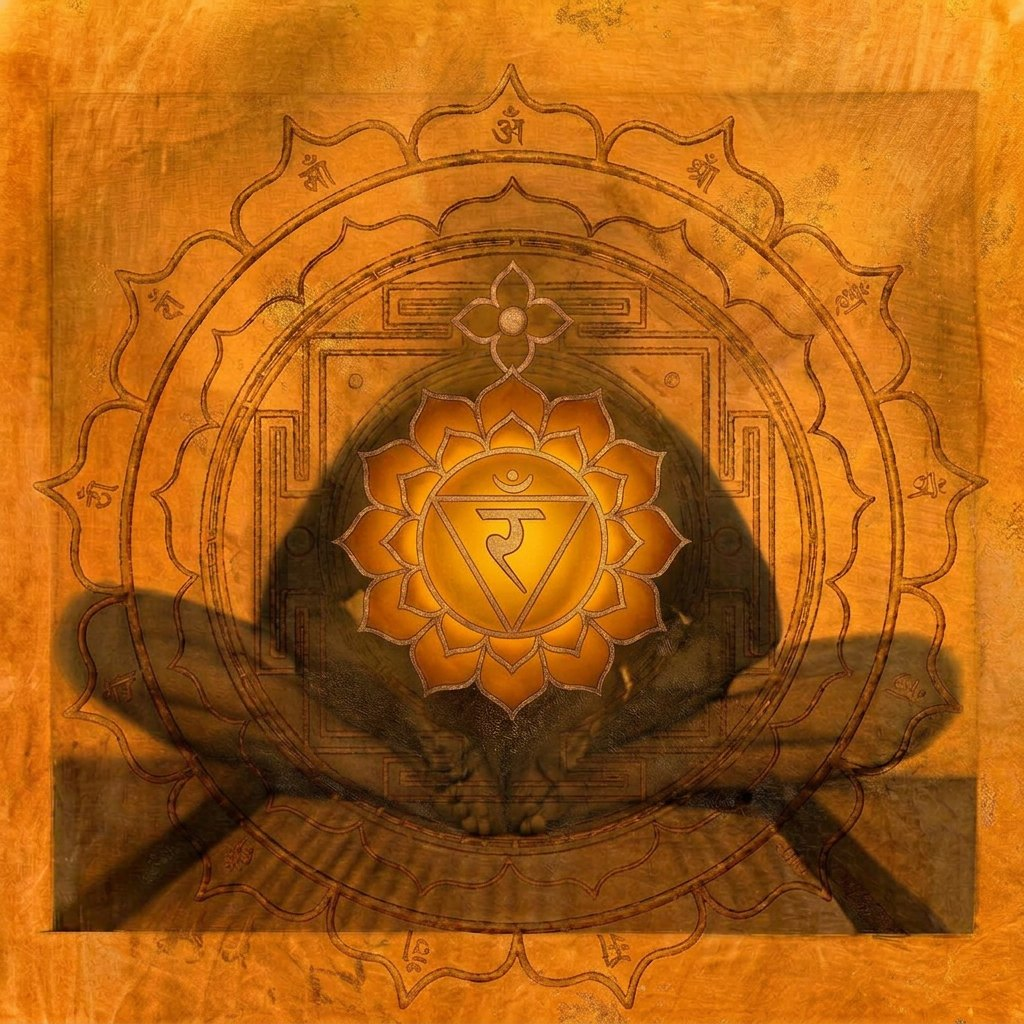
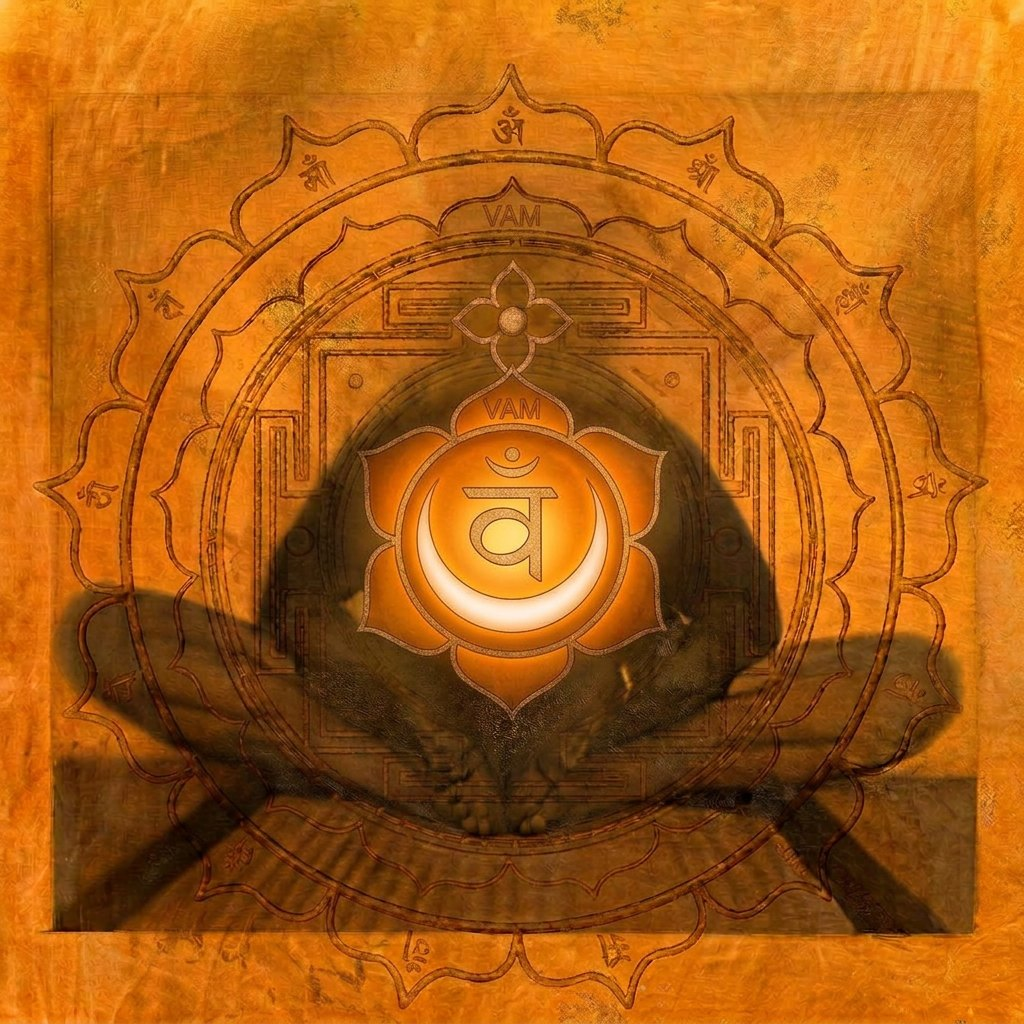
Sunhouse Yoga: corrected Sacral artwork; full-body chakra image for Full Reset

Changed region(s): [[0.3125, 0.375, 0.6875, 0.7188], [0.4688, 0.1875, 0.5312, 0.2188]]

diff --git a/sunhouse-yoga/class-full-reset.html b/sunhouse-yoga/class-full-reset.html
@@ -33,7 +33,7 @@
       <p class="lede">Once a week we reset everything. A kundalini class that works through the body from root to crown with kriyas, breath and sound, and ends lying down under the gong.</p>
       <div class="actions"><a href="calendar.html?class=full-reset" class="btn">See dates &amp; book</a><a href="classes.html" class="btn ghost">All classes</a></div>
     </div>
-    <div class="art reveal"><svg viewBox="0 0 400 500" role="img" aria-label="Full Reset sun" xmlns="http://www.w3.org/2000/svg"><defs><linearGradient id="g-full-reset-45" x1="0" y1="0" x2="0" y2="1"><stop offset="0" stop-color="#efe5c6"/><stop offset="1" stop-color="#efe5c6"/></linearGradient><radialGradient id="r-full-reset-45"><stop offset="0" stop-color="#E3A33B" stop-opacity=".35"/><stop offset="1" stop-color="#E3A33B" stop-opacity="0"/></radialGradient></defs><rect width="400" height="500" fill="url(#g-full-reset-45)"/><line x1="292.0" y1="260.0" x2="362.0" y2="260.0" stroke="#E3A33B" stroke-width=".8" opacity=".55"/><line x1="291.6" y1="268.0" x2="331.5" y2="271.5" stroke="#E3A33B" stroke-width=".8" opacity=".55"/><line x1="290.6" y1="276.0" x2="359.5" y2="288.1" stroke="#E3A33B" stroke-width=".8" opacity=".55"/><line x1="288.9" y1="283.8" x2="327.5" y2="294.2" stroke="#E3A33B" stroke-width=".8" opacity=".55"/><line x1="286.5" y1="291.5" x2="352.2" y2="315.4" stroke="#E3A33B" stroke-width=".8" opacity=".55"/><line x1="283.4" y1="298.9" x2="319.6" y2="315.8" stroke="#E3A33B" stroke-width=".8" opacity=".55"/><line x1="279.7" y1="306.0" x2="340.3" y2="341.0" stroke="#E3A33B" stroke-width=".8" opacity=".55"/><line x1="275.4" y1="312.8" x2="308.1" y2="335.7" stroke="#E3A33B" stroke-width=".8" opacity=".55"/><line x1="270.5" y1="319.1" x2="324.1" y2="364.1" stroke="#E3A33B" stroke-width=".8" opacity=".55"/><line x1="265.1" y1="325.1" x2="293.3" y2="353.3" stroke="#E3A33B" stroke-width=".8" opacity=".55"/><line x1="259.1" y1="330.5" x2="304.1" y2="384.1" stroke="#E3A33B" stroke-width=".8" opacity=".55"/><line x1="252.8" y1="335.4" x2="275.7" y2="368.1" stroke="#E3A33B" stroke-width=".8" opacity=".55"/><line x1="246.0" y1="339.7" x2="281.0" y2="400.3" stroke="#E3A33B" stroke-width=".8" opacity=".55"/><line x1="238.9" y1="343.4" x2="255.8" y2="379.6" stroke="#E3A33B" stroke-width=".8" opacity=".55"/><line x1="231.5" y1="346.5" x2="255.4" y2="412.2" stroke="#E3A33B" stroke-width=".8" opacity=".55"/><line x1="223.8" y1="348.9" x2="234.2" y2="387.5" stroke="#E3A33B" stroke-width=".8" opacity=".55"/><line x1="216.0" y1="350.6" x2="228.1" y2="419.5" stroke="#E3A33B" stroke-width=".8" opacity=".55"/><line x1="208.0" y1="351.6" x2="211.5" y2="391.5" stroke="#E3A33B" stroke-width=".8" opacity=".55"/><line x1="200.0" y1="352.0" x2="200.0" y2="422.0" stroke="#E3A33B" stroke-width=".8" opacity=".55"/><line x1="192.0" y1="351.6" x2="188.5" y2="391.5" stroke="#E3A33B" stroke-width=".8" opacity=".55"/><line x1="184.0" y1="350.6" x2="171.9" y2="419.5" stroke="#E3A33B" stroke-width=".8" opacity=".55"/><line x1="176.2" y1="348.9" x2="165.8" y2="387.5" stroke="#E3A33B" stroke-width=".8" opacity=".55"/><line x1="168.5" y1="346.5" x2="144.6" y2="412.2" stroke="#E3A33B" stroke-width=".8" opacity=".55"/><line x1="161.1" y1="343.4" x2="144.2" y2="379.6" stroke="#E3A33B" stroke-width=".8" opacity=".55"/><line x1="154.0" y1="339.7" x2="119.0" y2="400.3" stroke="#E3A33B" stroke-width=".8" opacity=".55"/><line x1="147.2" y1="335.4" x2="124.3" y2="368.1" stroke="#E3A33B" stroke-width=".8" opacity=".55"/><line x1="140.9" y1="330.5" x2="95.9" y2="384.1" stroke="#E3A33B" stroke-width=".8" opacity=".55"/><line x1="134.9" y1="325.1" x2="106.7" y2="353.3" stroke="#E3A33B" stroke-width=".8" opacity=".55"/><line x1="129.5" y1="319.1" x2="75.9" y2="364.1" stroke="#E3A33B" stroke-width=".8" opacity=".55"/><line x1="124.6" y1="312.8" x2="91.9" y2="335.7" stroke="#E3A33B" stroke-width=".8" opacity=".55"/><line x1="120.3" y1="306.0" x2="59.7" y2="341.0" stroke="#E3A33B" stroke-width=".8" opacity=".55"/><line x1="116.6" y1="298.9" x2="80.4" y2="315.8" stroke="#E3A33B" stroke-width=".8" opacity=".55"/><line x1="113.5" y1="291.5" x2="47.8" y2="315.4" stroke="#E3A33B" stroke-width=".8" opacity=".55"/><line x1="111.1" y1="283.8" x2="72.5" y2="294.2" stroke="#E3A33B" stroke-width=".8" opacity=".55"/><line x1="109.4" y1="276.0" x2="40.5" y2="288.1" stroke="#E3A33B" stroke-width=".8" opacity=".55"/><line x1="108.4" y1="268.0" x2="68.5" y2="271.5" stroke="#E3A33B" stroke-width=".8" opacity=".55"/><line x1="108.0" y1="260.0" x2="38.0" y2="260.0" stroke="#E3A33B" stroke-width=".8" opacity=".55"/><line x1="108.4" y1="252.0" x2="68.5" y2="248.5" stroke="#E3A33B" stroke-width=".8" opacity=".55"/><line x1="109.4" y1="244.0" x2="40.5" y2="231.9" stroke="#E3A33B" stroke-width=".8" opacity=".55"/><line x1="111.1" y1="236.2" x2="72.5" y2="225.8" stroke="#E3A33B" stroke-width=".8" opacity=".55"/><line x1="113.5" y1="228.5" x2="47.8" y2="204.6" stroke="#E3A33B" stroke-width=".8" opacity=".55"/><line x1="116.6" y1="221.1" x2="80.4" y2="204.2" stroke="#E3A33B" stroke-width=".8" opacity=".55"/><line x1="120.3" y1="214.0" x2="59.7" y2="179.0" stroke="#E3A33B" stroke-width=".8" opacity=".55"/><line x1="124.6" y1="207.2" x2="91.9" y2="184.3" stroke="#E3A33B" stroke-width=".8" opacity=".55"/><line x1="129.5" y1="200.9" x2="75.9" y2="155.9" stroke="#E3A33B" stroke-width=".8" opacity=".55"/><line x1="134.9" y1="194.9" x2="106.7" y2="166.7" stroke="#E3A33B" stroke-width=".8" opacity=".55"/><line x1="140.9" y1="189.5" x2="95.9" y2="135.9" stroke="#E3A33B" stroke-width=".8" opacity=".55"/><line x1="147.2" y1="184.6" x2="124.3" y2="151.9" stroke="#E3A33B" stroke-width=".8" opacity=".55"/><line x1="154.0" y1="180.3" x2="119.0" y2="119.7" stroke="#E3A33B" stroke-width=".8" opacity=".55"/><line x1="161.1" y1="176.6" x2="144.2" y2="140.4" stroke="#E3A33B" stroke-width=".8" opacity=".55"/><line x1="168.5" y1="173.5" x2="144.6" y2="107.8" stroke="#E3A33B" stroke-width=".8" opacity=".55"/><line x1="176.2" y1="171.1" x2="165.8" y2="132.5" stroke="#E3A33B" stroke-width=".8" opacity=".55"/><line x1="184.0" y1="169.4" x2="171.9" y2="100.5" stroke="#E3A33B" stroke-width=".8" opacity=".55"/><line x1="192.0" y1="168.4" x2="188.5" y2="128.5" stroke="#E3A33B" stroke-width=".8" opacity=".55"/><line x1="200.0" y1="168.0" x2="200.0" y2="98.0" stroke="#E3A33B" stroke-width=".8" opacity=".55"/><line x1="208.0" y1="168.4" x2="211.5" y2="128.5" stroke="#E3A33B" stroke-width=".8" opacity=".55"/><line x1="216.0" y1="169.4" x2="228.1" y2="100.5" stroke="#E3A33B" stroke-width=".8" opacity=".55"/><line x1="223.8" y1="171.1" x2="234.2" y2="132.5" stroke="#E3A33B" stroke-width=".8" opacity=".55"/><line x1="231.5" y1="173.5" x2="255.4" y2="107.8" stroke="#E3A33B" stroke-width=".8" opacity=".55"/><line x1="238.9" y1="176.6" x2="255.8" y2="140.4" stroke="#E3A33B" stroke-width=".8" opacity=".55"/><line x1="246.0" y1="180.3" x2="281.0" y2="119.7" stroke="#E3A33B" stroke-width=".8" opacity=".55"/><line x1="252.8" y1="184.6" x2="275.7" y2="151.9" stroke="#E3A33B" stroke-width=".8" opacity=".55"/><line x1="259.1" y1="189.5" x2="304.1" y2="135.9" stroke="#E3A33B" stroke-width=".8" opacity=".55"/><line x1="265.1" y1="194.9" x2="293.3" y2="166.7" stroke="#E3A33B" stroke-width=".8" opacity=".55"/><line x1="270.5" y1="200.9" x2="324.1" y2="155.9" stroke="#E3A33B" stroke-width=".8" opacity=".55"/><line x1="275.4" y1="207.2" x2="308.1" y2="184.3" stroke="#E3A33B" stroke-width=".8" opacity=".55"/><line x1="279.7" y1="214.0" x2="340.3" y2="179.0" stroke="#E3A33B" stroke-width=".8" opacity=".55"/><line x1="283.4" y1="221.1" x2="319.6" y2="204.2" stroke="#E3A33B" stroke-width=".8" opacity=".55"/><line x1="286.5" y1="228.5" x2="352.2" y2="204.6" stroke="#E3A33B" stroke-width=".8" opacity=".55"/><line x1="288.9" y1="236.2" x2="327.5" y2="225.8" stroke="#E3A33B" stroke-width=".8" opacity=".55"/><line x1="290.6" y1="244.0" x2="359.5" y2="231.9" stroke="#E3A33B" stroke-width=".8" opacity=".55"/><line x1="291.6" y1="252.0" x2="331.5" y2="248.5" stroke="#E3A33B" stroke-width=".8" opacity=".55"/><ellipse cx="200" cy="196.0" rx="20.0" ry="22" fill="none" stroke="#E3A33B" stroke-width="1.3" transform="rotate(0.0 200 260.0)"/><ellipse cx="200" cy="196.0" rx="20.0" ry="22" fill="none" stroke="#E3A33B" stroke-width="1.3" transform="rotate(51.4 200 260.0)"/><ellipse cx="200" cy="196.0" rx="20.0" ry="22" fill="none" stroke="#E3A33B" stroke-width="1.3" transform="rotate(102.9 200 260.0)"/><ellipse cx="200" cy="196.0" rx="20.0" ry="22" fill="none" stroke="#E3A33B" stroke-width="1.3" transform="rotate(154.3 200 260.0)"/><ellipse cx="200" cy="196.0" rx="20.0" ry="22" fill="none" stroke="#E3A33B" stroke-width="1.3" transform="rotate(205.7 200 260.0)"/><ellipse cx="200" cy="196.0" rx="20.0" ry="22" fill="none" stroke="#E3A33B" stroke-width="1.3" transform="rotate(257.1 200 260.0)"/><ellipse cx="200" cy="196.0" rx="20.0" ry="22" fill="none" stroke="#E3A33B" stroke-width="1.3" transform="rotate(308.6 200 260.0)"/><circle cx="200" cy="260.0" r="40.0" fill="#B2452E"/><circle cx="200" cy="260.0" r="34.8" fill="#D9782F"/><circle cx="200" cy="260.0" r="29.6" fill="#E3A33B"/><circle cx="200" cy="260.0" r="24.4" fill="#8FA36E"/><circle cx="200" cy="260.0" r="19.2" fill="#6E93A6"/><circle cx="200" cy="260.0" r="14.0" fill="#4E4F84"/><circle cx="200" cy="260.0" r="8.8" fill="#8D6E9E"/></svg></div>
+    <div class="art reveal"><img src="images/full-reset.jpg" alt="Painting of a seated meditator with all seven chakras glowing along the spine" width="768" height="1376" loading="lazy" class="chakra-img" style="aspect-ratio:auto"></div>
   </section>
   <dl class="facts reveal">
     <div><dt class="eyebrow">Style</dt><dd>Kundalini</dd></div>

diff --git a/sunhouse-yoga/CREDITS.md b/sunhouse-yoga/CREDITS.md
@@ -41,6 +41,8 @@ The site gives them all the same warm duotone, so photos from different shoots m
 
 images/chakra-{root,sacral,solar-plexus,throat,ajna,crown}.jpg: series by Julianna Gimelli in Adobe Firefly (1024 × 1024). Used on the class cards and class pages. A Heart version exists but there is no Heart class.
 
+images/full-reset.jpg: full-body seven-chakra image by Julianna Gimelli in Adobe Firefly (source 384 × 688, enlarged 2×; a larger export would be sharper).
+
 ## Drawn artwork
 
 The lotus-sun illustrations for Sunrise Salutations, Deep Flow and Full Reset (until their images arrive) and the line sun on the homepage are drawn in SVG for this site.
